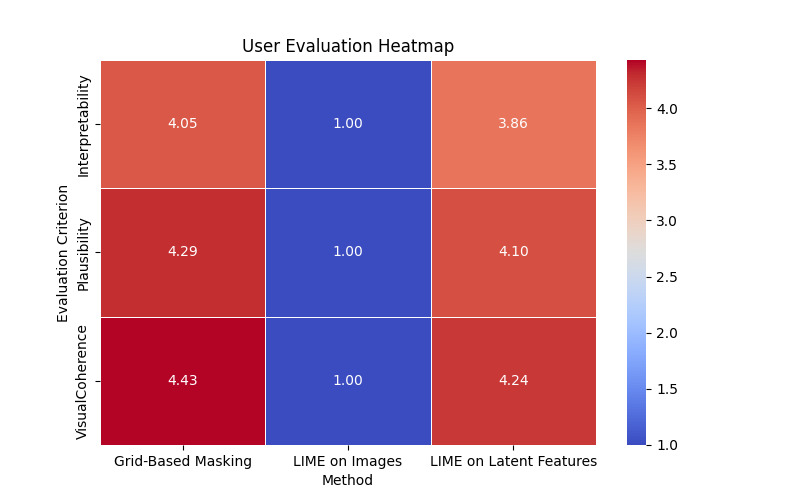
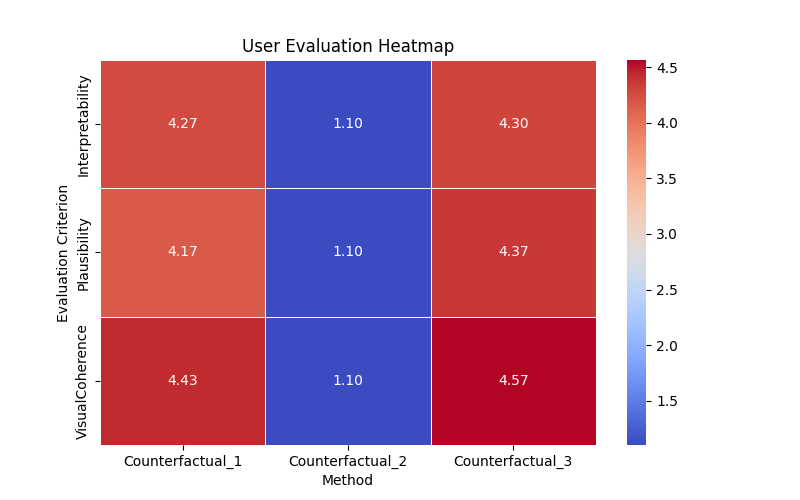
Added the User Feedback and analysed the results

diff --git a/Projects/counterfactual_comparison/analyze_responses.py b/Projects/counterfactual_comparison/analyze_responses.py
@@ -3,15 +3,24 @@ import matplotlib.pyplot as plt
 import seaborn as sns
 import os
 
-# Load the dataset
-file_path = "Projects/counterfactual_comparison/responses.csv"  # Ensure the path to your responses file is correct
+# ============================
+# Step 0: Load and Clean Data
+# ============================
+file_path = "Projects/counterfactual_comparison/responses.csv"
 df = pd.read_csv(file_path)
 
+# Strip extra whitespace from column names
+df.columns = df.columns.str.strip()
+
 # Inspect dataset
-print("Dataset Overview:\n", df.head())  # Check structure
+print("Dataset Overview:\n", df.head())
 print("Detected columns:", df.columns.tolist())
 
-# **Step 1: Rename Columns for Clarity**
+# ============================
+# Step 1: Rename Columns (Optional)
+# ============================
+# Use this mapping if you want to show alternative method names for visualization.
+# If your CSV already contains the desired column names, you can skip this step.
 method_mapping = {
     "Counterfactual_1_Interpretability": "Grid-Based Masking_Interpretability",
     "Counterfactual_1_Plausibility": "Grid-Based Masking_Plausibility",
@@ -26,37 +35,42 @@ method_mapping = {
     "Counterfactual_3_VisualCoherence": "LIME on Latent Features_VisualCoherence",
 }
 
-# Rename the columns
-df.rename(columns=method_mapping, inplace=True)
+# Uncomment the following line if you want to apply renaming:
+# df.rename(columns=method_mapping, inplace=True)
 
-# **Step 2: Convert Wide Format to Long Format**
+# ============================
+# Step 2: Convert Wide Format to Long Format
+# ============================
 df_long = df.melt(id_vars=["Image"], var_name="Method_Criterion", value_name="Rating")
 
-# **Step 3: Split Method and Criterion**
-df_long["Method"] = df_long["Method_Criterion"].apply(lambda x: x.split("_")[0])  
-df_long["Criterion"] = df_long["Method_Criterion"].apply(lambda x: x.split("_")[1])  
-
-# Drop the original combined column
+# ============================
+# Step 3: Split 'Method_Criterion' into 'Method' and 'Criterion'
+# Using rsplit in case method names contain underscores
+# ============================
+df_long["Method"], df_long["Criterion"] = zip(*df_long["Method_Criterion"].apply(lambda x: x.rsplit("_", 1)))
 df_long.drop(columns=["Method_Criterion"], inplace=True)
 
-# **Step 4: Convert ratings to numeric & remove NaNs**
+# ============================
+# Step 4: Convert Ratings to Numeric & Clean Data
+# ============================
 df_long["Rating"] = pd.to_numeric(df_long["Rating"], errors="coerce")
 df_long.dropna(inplace=True)
 
-# **Step 5: Aggregate duplicate values**
+# ============================
+# Step 5: Aggregate and Pivot Data for Visualization
+# ============================
 df_summary = df_long.groupby(["Method", "Criterion"])["Rating"].mean().reset_index()
-
-# **Step 6: Pivot for Visualization**
 df_pivot = df_summary.pivot(index="Criterion", columns="Method", values="Rating")
 
-# Create output directory
+# Create output directory for plots
 output_dir = "plots/counterfactual_comparison/"
 os.makedirs(output_dir, exist_ok=True)
 
-### ** Bar Plot**
+# ============================
+# Step 6: Bar Plot Using Pivoted Data
+# ============================
 plt.figure(figsize=(10, 6))
-df_pivot.plot(kind="bar", figsize=(10, 6), colormap="viridis", edgecolor="black")
-
+df_pivot.plot(kind="bar", colormap="viridis", edgecolor="black")
 plt.title("User Evaluation of Counterfactual Explanation Methods")
 plt.xlabel("Evaluation Criteria")
 plt.ylabel("Average Rating (1-5)")
@@ -64,25 +78,49 @@ plt.xticks(rotation=45)
 plt.legend(title="Method")
 plt.grid(axis="y", linestyle="--", alpha=0.6)
 plt.tight_layout()
-
-# Save bar plot
 bar_plot_path = os.path.join(output_dir, "bar_plot_user_evaluations.png")
 plt.savefig(bar_plot_path)
-plt.show()
+print(f"Bar plot saved: {bar_plot_path}")
 
-print(f" Bar plot saved: {bar_plot_path}")
-
-### ** Heatmap**
+# ============================
+# Step 7: Heatmap Using Seaborn
+# ============================
 plt.figure(figsize=(8, 5))
 sns.heatmap(df_pivot, annot=True, cmap="coolwarm", linewidths=0.5, fmt=".2f")
-
 plt.title("User Evaluation Heatmap")
 plt.xlabel("Method")
 plt.ylabel("Evaluation Criterion")
-
-# Save heatmap
 heatmap_path = os.path.join(output_dir, "heatmap_user_evaluations.png")
 plt.savefig(heatmap_path)
-plt.show()
+print(f"Heatmap saved: {heatmap_path}")
 
-print(f" Heatmap saved: {heatmap_path}")
+# ============================
+# Step 8: Compute Average Ratings from Wide-Format Data and Plot Individual Bar Charts
+# ============================
+metrics = ["Interpretability", "Plausibility", "VisualCoherence"]
+methods = [1, 2, 3]
+avg_ratings = {}
+
+for metric in metrics:
+    avg_ratings[metric] = []
+    for method in methods:
+        col_name = f"Counterfactual_{method}_{metric}"
+        if col_name in df.columns:
+            avg = df[col_name].mean()
+            avg_ratings[metric].append(avg)
+            print(f"Average {metric} for Counterfactual {method}: {avg:.2f}")
+        else:
+            print(f"Column {col_name} not found!")
+            avg_ratings[metric].append(None)
+
+# Plot a separate bar chart for each metric
+for metric in metrics:
+    plt.figure(figsize=(8, 5))
+    plt.bar([f"Method {m}" for m in methods], avg_ratings[metric], color="skyblue", edgecolor="black")
+    plt.xlabel("Counterfactual Method")
+    plt.ylabel(f"Average {metric}")
+    plt.title(f"Average {metric} Ratings per Counterfactual Method")
+    plt.ylim(0, 5)
+    metric_plot_path = os.path.join(output_dir, f"{metric}_ratings.png")
+    plt.savefig(metric_plot_path)
+    print(f"Bar chart for {metric} saved: {metric_plot_path}")
